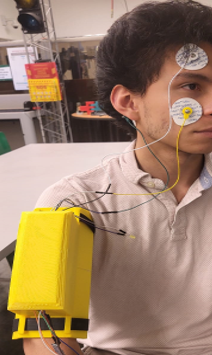
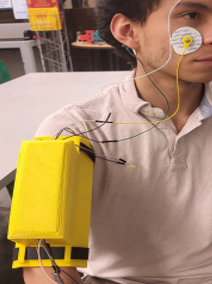
Crop the worn wearable photograph
20% off the top. The electrodes and the shoulder enclosure both stay in
frame, and at 0.746 the result sits almost exactly on the 3:4 its tile
asks for, so the layout barely crops it now.

diff --git a/index.html b/index.html
@@ -497,7 +497,7 @@
             <figcaption>Electrode placement — two inputs across the eye, reference on the jaw.</figcaption>
           </figure>
           <figure class="tall">
-            <img src="images/eog-worn.png?v=22" alt="The wearable in use: electrodes taped above and beside one eye, their leads running down to a printed yellow enclosure clipped at the shoulder.">
+            <img src="images/eog-worn.png?v=26" alt="The wearable in use: electrodes taped above and beside one eye, their leads running down to a printed yellow enclosure clipped at the shoulder.">
             <figcaption>The wearable in use, enclosure clipped at the shoulder.</figcaption>
           </figure>
           <figure class="tall">
